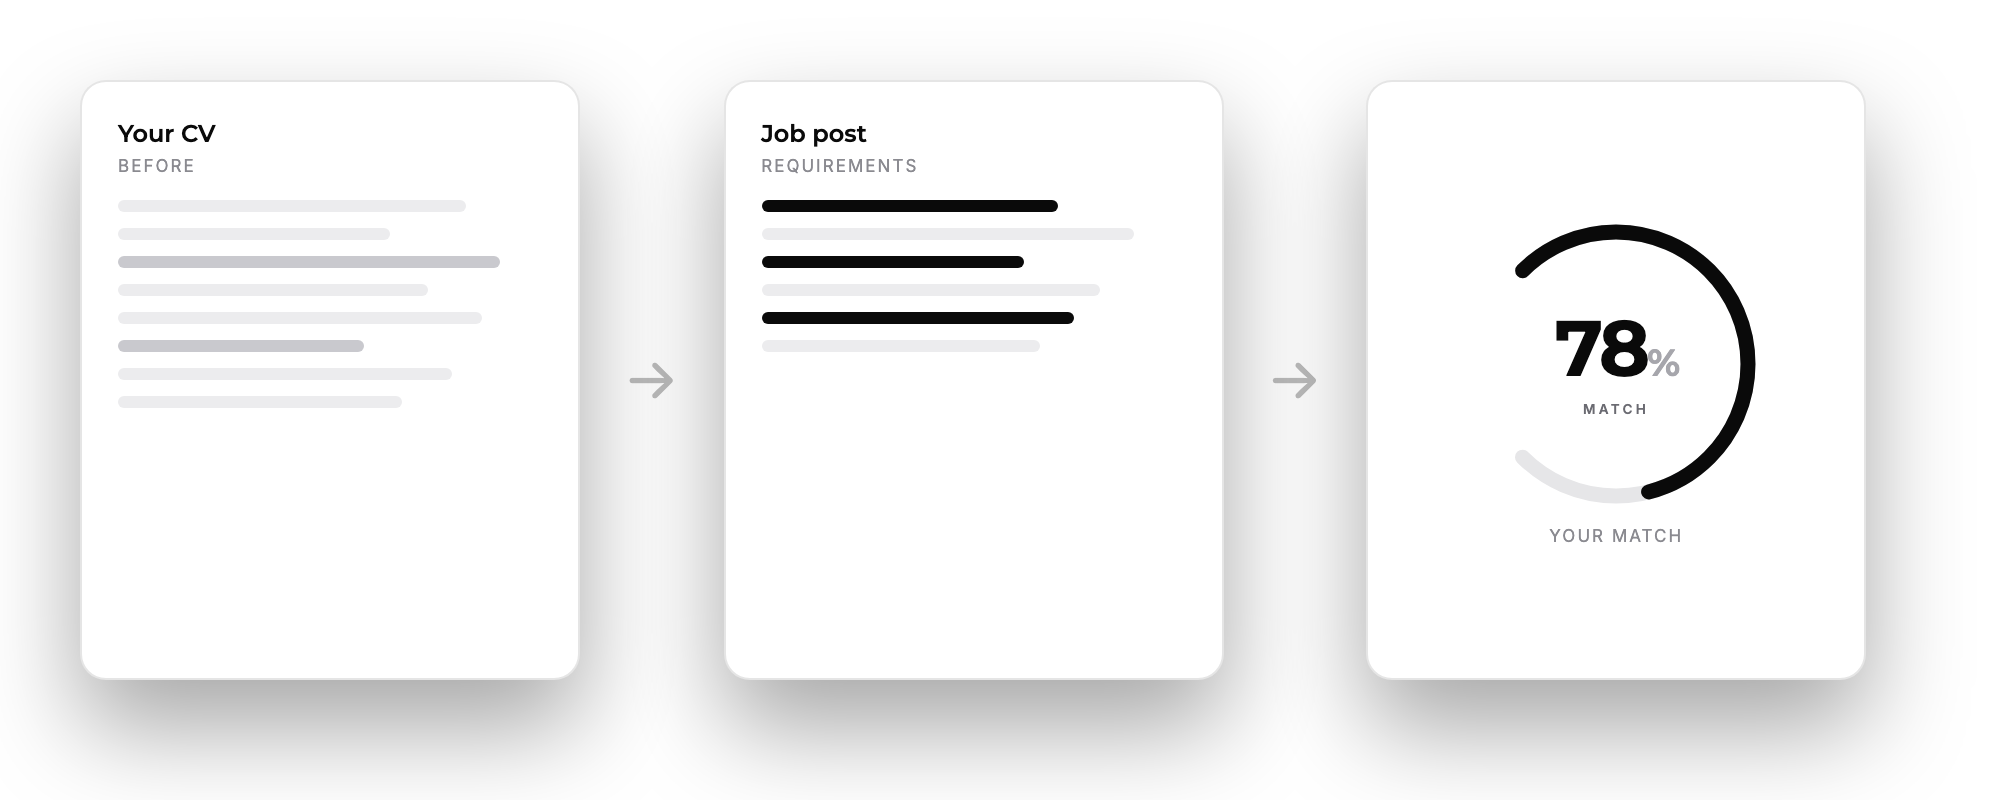
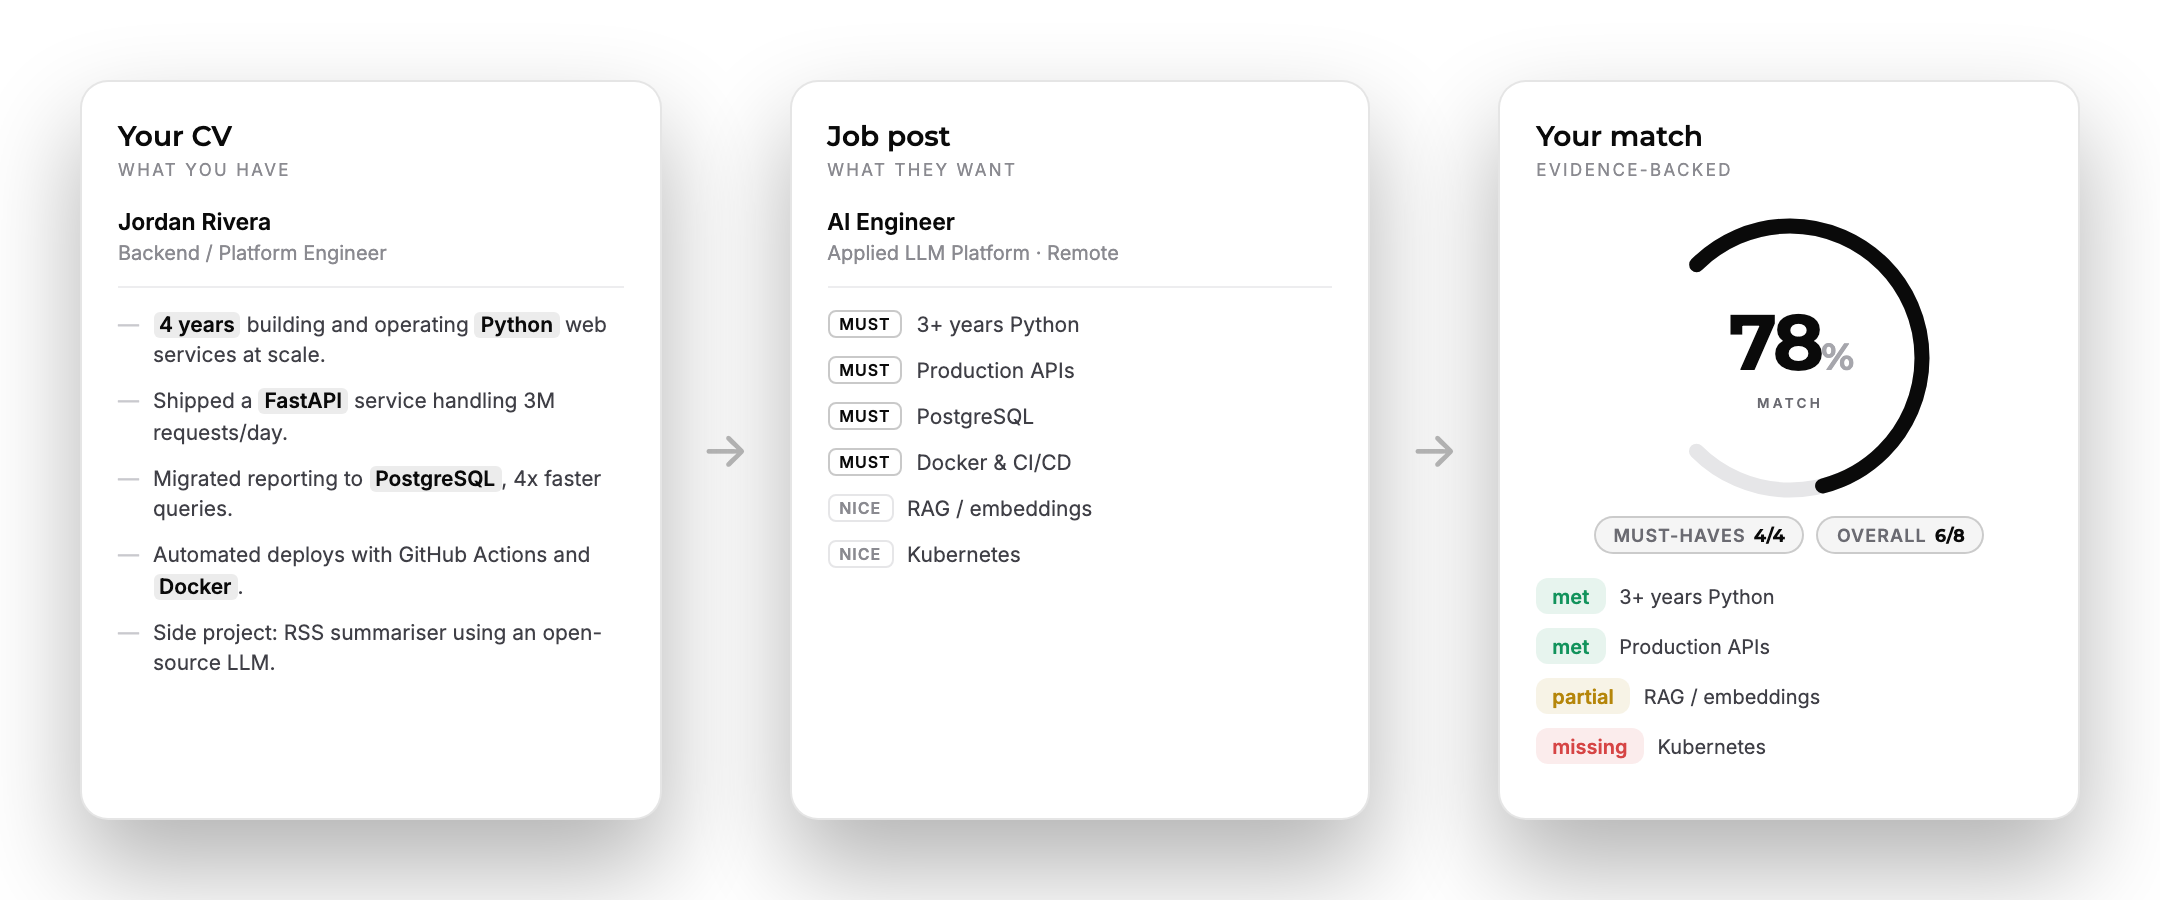
feat(landing): detailed transform visual + stacked mobile variant
The "how it works" illustration used placeholder grey bars, which showed
the shape of the product but said nothing about it. Both panels now carry
real content — a CV with the matched terms highlighted, a job post split
into must/nice requirements, and a match panel with the dial, coverage
chips, and per-requirement verdicts.

Three columns of 10px type is unreadable on a phone, so the same flow is
also rendered stacked and swapped in below the sm breakpoint. The stacked
shot is rendered at ~its display width with a larger type scale, so the
text lands close to 1:1 instead of being scaled down to ~6px. Only one
image is ever in the a11y tree (`hidden` is display:none).

Shots are now taken with a deliberately short viewport: full_page means
the height is only a floor, so the PNGs crop tight to their content
instead of baking in trailing whitespace.

diff --git a/frontend/components/landing/HowItWorks.tsx b/frontend/components/landing/HowItWorks.tsx
@@ -11,6 +11,9 @@ const STEPS = [
   { icon: BarChart3, title: "Get your match", body: "A score, an evidence-backed gap analysis, and tailored rewrites." },
 ];
 
+const TRANSFORM_ALT =
+  "Your CV and a job post become a 78% match: four of four must-haves met, RAG partially covered, Kubernetes missing.";
+
 export function HowItWorks() {
   return (
     <section id="how" className="bg-background scroll-mt-16">
@@ -30,12 +33,25 @@ export function HowItWorks() {
           transition={{ duration: 0.5 }}
           className="mt-12 sm:mt-14"
         >
+          {/* Three columns of small type are unreadable on a phone, so below sm
+              the same flow is swapped for a stacked render sized for that width
+              (capped at its native 398px so type stays 1:1). Only one is ever in
+              the a11y tree — `hidden` is display:none. */}
           <Image
             src="/visuals/transform.png"
-            alt="Your CV and a job post become a match score"
-            width={2000}
-            height={800}
-            className="w-full h-auto"
+            alt={TRANSFORM_ALT}
+            width={2160}
+            height={900}
+            sizes="(min-width: 640px) 100vw, 0px"
+            className="hidden sm:block w-full h-auto"
+          />
+          <Image
+            src="/visuals/transform-stacked.png"
+            alt={TRANSFORM_ALT}
+            width={796}
+            height={2800}
+            sizes="(max-width: 639px) 100vw, 0px"
+            className="block sm:hidden mx-auto w-full max-w-[398px] h-auto"
           />
         </motion.div>
 

diff --git a/frontend/components/landing/Benefits.tsx b/frontend/components/landing/Benefits.tsx
@@ -56,7 +56,7 @@ export function Benefits() {
             src="/visuals/result-preview.png"
             alt="Example ResumeMatch result: 78% match with evidence-backed requirement coverage and a suggested rewrite"
             width={2040}
-            height={1400}
+            height={1250}
             className="mx-auto w-full max-w-3xl h-auto"
           />
         </motion.div>

diff --git a/backend/site_visuals.py b/backend/site_visuals.py
@@ -49,10 +49,10 @@ BASE_CSS = """
 """
 
 
-def _dial_svg(pct: int) -> str:
+def _dial_svg(pct: int, size: int = 150) -> str:
     off = TRACK * (1 - pct / 100)
     return f"""
-<svg viewBox="0 0 200 200" width="150" height="150">
+<svg viewBox="0 0 200 200" width="{size}" height="{size}">
   <g transform="rotate(-135 100 100)">
     <circle cx="100" cy="100" r="{R}" fill="none" stroke="#E6E6E8" stroke-width="10"
             stroke-linecap="round" stroke-dasharray="{TRACK:.1f} {CIRC:.1f}"/>
@@ -143,50 +143,147 @@ RESULT_SHOT = f"""<!doctype html><html><head><meta charset="utf-8">{FONTS}
 
 
 # ------------------------------------------------------------ transformation
-TRANSFORM_SHOT = f"""<!doctype html><html><head><meta charset="utf-8">{FONTS}
-<style>{BASE_CSS}
-  .flow {{ display: flex; align-items: center; gap: 22px; }}
-  .doc {{ width: 250px; height: 300px; background: #fff; border: 1px solid rgba(0,0,0,.10);
-          border-radius: 13px; padding: 18px; box-shadow: 0 24px 50px rgba(0,0,0,.35); }}
-  .doc .h {{ font-family: Montserrat, sans-serif; font-size: 12px; margin-bottom: 4px; }}
-  .doc .tag {{ font-size: 8.5px; letter-spacing: .12em; text-transform: uppercase;
-               color: #8A8A90; margin-bottom: 12px; }}
-  .line {{ height: 6px; border-radius: 99px; background: #ECECEE; margin-bottom: 8px; }}
-  .line.dark {{ background: #0A0A0A; }}
-  .line.mid {{ background: #C9C9CE; }}
-  .arrow {{ font-size: 30px; color: rgba(10,10,10,.28); }}
-</style></head><body>
-<div class="flow">
-  <div class="doc">
-    <div class="h">Your CV</div><div class="tag">before</div>
-    <div class="line" style="width:82%"></div><div class="line" style="width:64%"></div>
-    <div class="line mid" style="width:90%"></div><div class="line" style="width:73%"></div>
-    <div class="line" style="width:86%"></div><div class="line mid" style="width:58%"></div>
-    <div class="line" style="width:79%"></div><div class="line" style="width:67%"></div>
+# Real content rather than placeholder bars, so the panels actually explain the
+# product. Rendered twice — side-by-side for wide screens, stacked for mobile,
+# where three columns would shrink the type past readability.
+
+TRANSFORM_CSS = """
+  .flow { display: flex; align-items: stretch; gap: 20px; }
+  .flow.stack { flex-direction: column; align-items: center; gap: 14px; }
+
+  .doc { width: 300px; background: #fff; border: 1px solid rgba(0,0,0,.10);
+         border-radius: 14px; padding: 18px 18px 20px;
+         box-shadow: 0 24px 50px rgba(0,0,0,.30); }
+  .flow.stack .doc { width: 460px; }
+
+  .doc .h { font-family: Montserrat, sans-serif; font-size: 14px; }
+  .doc .tag { font-size: 8.5px; letter-spacing: .14em; text-transform: uppercase;
+              color: #8A8A90; margin: 3px 0 14px; }
+
+  .who { font-size: 11.5px; font-weight: 600; }
+  .who span { display: block; font-weight: 400; color: #8A8A90; font-size: 10px; margin-top: 2px; }
+  .rule { height: 1px; background: #EDEDEF; margin: 11px 0; }
+
+  .b { display: flex; gap: 7px; font-size: 10.5px; line-height: 1.45;
+       color: #3F3F46; margin-bottom: 8px; }
+  .b::before { content: "—"; color: #C9C9CE; }
+  mark { background: rgba(10,10,10,.08); color: #0A0A0A; font-weight: 600;
+         padding: 0 3px; border-radius: 3px; }
+
+  .req { display: flex; align-items: center; gap: 7px; font-size: 10.5px;
+         color: #3F3F46; margin-bottom: 9px; }
+  .must { font-size: 8px; font-weight: 700; letter-spacing: .06em; text-transform: uppercase;
+          border: 1px solid rgba(10,10,10,.22); border-radius: 4px; padding: 1px 5px; color: #0A0A0A; }
+  .nice { font-size: 8px; font-weight: 600; letter-spacing: .06em; text-transform: uppercase;
+          border: 1px solid #E6E6E8; border-radius: 4px; padding: 1px 5px; color: #8A8A90; }
+
+  .arrow { font-size: 26px; color: rgba(10,10,10,.28); align-self: center; }
+
+  .chips { display: flex; gap: 6px; justify-content: center; margin-top: 4px; }
+  .chip { border: 1px solid rgba(10,10,10,.18); background: rgba(10,10,10,.04);
+          border-radius: 99px; padding: 3px 9px; font-size: 9px; }
+  .chip b { color: #6B6B72; text-transform: uppercase; letter-spacing: .06em; }
+  .chip i { font-style: normal; font-family: Montserrat, sans-serif; font-weight: 700; margin-left: 4px; }
+  .mini { margin-top: 12px; }
+  .mini .row { display: flex; align-items: center; gap: 7px; font-size: 10px;
+               color: #3F3F46; margin-bottom: 7px; }
+"""
+
+CV_PANEL = """
+<div class="doc">
+  <div class="h">Your CV</div><div class="tag">what you have</div>
+  <div class="who">Jordan Rivera<span>Backend / Platform Engineer</span></div>
+  <div class="rule"></div>
+  <div class="b"><span><mark>4 years</mark> building and operating <mark>Python</mark> web services at scale.</span></div>
+  <div class="b"><span>Shipped a <mark>FastAPI</mark> service handling 3M requests/day.</span></div>
+  <div class="b"><span>Migrated reporting to <mark>PostgreSQL</mark>, 4x faster queries.</span></div>
+  <div class="b"><span>Automated deploys with GitHub Actions and <mark>Docker</mark>.</span></div>
+  <div class="b"><span>Side project: RSS summariser using an open-source LLM.</span></div>
+</div>"""
+
+JOB_PANEL = """
+<div class="doc">
+  <div class="h">Job post</div><div class="tag">what they want</div>
+  <div class="who">AI Engineer<span>Applied LLM Platform · Remote</span></div>
+  <div class="rule"></div>
+  <div class="req"><span class="must">must</span> 3+ years Python</div>
+  <div class="req"><span class="must">must</span> Production APIs</div>
+  <div class="req"><span class="must">must</span> PostgreSQL</div>
+  <div class="req"><span class="must">must</span> Docker &amp; CI/CD</div>
+  <div class="req"><span class="nice">nice</span> RAG / embeddings</div>
+  <div class="req"><span class="nice">nice</span> Kubernetes</div>
+</div>"""
+
+
+def _match_panel(dial: int) -> str:
+    return f"""
+<div class="doc" style="display:flex;flex-direction:column;align-items:center;">
+  <div style="align-self:flex-start"><div class="h">Your match</div>
+    <div class="tag">evidence-backed</div></div>
+  {_dial_svg(78, dial)}
+  <div class="chips">
+    <span class="chip"><b>Must-haves</b><i>4/4</i></span>
+    <span class="chip"><b>Overall</b><i>6/8</i></span>
   </div>
-
-  <div class="arrow">→</div>
-
-  <div class="doc" style="width:250px">
-    <div class="h">Job post</div><div class="tag">requirements</div>
-    <div class="line dark" style="width:70%"></div><div class="line" style="width:88%"></div>
-    <div class="line dark" style="width:62%"></div><div class="line" style="width:80%"></div>
-    <div class="line dark" style="width:74%"></div><div class="line" style="width:66%"></div>
+  <div class="mini" style="align-self:stretch">
+    <div class="row">{_pill("met", "met")} 3+ years Python</div>
+    <div class="row">{_pill("met", "met")} Production APIs</div>
+    <div class="row">{_pill("partial", "partial")} RAG / embeddings</div>
+    <div class="row">{_pill("missing", "missing")} Kubernetes</div>
   </div>
+</div>"""
 
-  <div class="arrow">→</div>
 
-  <div class="doc" style="display:flex;flex-direction:column;align-items:center;justify-content:center;gap:6px">
-    {_dial_svg(78)}
-    <div class="tag" style="margin:0">your match</div>
-  </div>
+# The stacked shot is rendered near the width it will actually be displayed at
+# (~350 CSS px inside the section's padding), so the type lands close to 1:1
+# instead of being scaled down to illegibility. Everything is sized up to suit.
+STACK_CSS = """
+  body { padding: 20px 24px 26px; }
+  .flow.stack .doc { width: 100%; padding: 20px 20px 22px; }
+  .flow.stack { gap: 10px; }
+  .doc .h { font-size: 19px; }
+  .doc .tag { font-size: 10.5px; margin: 4px 0 16px; }
+  .who { font-size: 15px; }
+  .who span { font-size: 13px; margin-top: 3px; }
+  .rule { margin: 14px 0; }
+  .b { font-size: 13.5px; line-height: 1.5; margin-bottom: 11px; gap: 9px; }
+  .req { font-size: 13.5px; margin-bottom: 12px; gap: 9px; }
+  .must, .nice { font-size: 10px; padding: 2px 6px; }
+  .chip { font-size: 11.5px; padding: 4px 11px; }
+  .chips { gap: 8px; margin-top: 8px; }
+  .mini { margin-top: 16px; }
+  .mini .row { font-size: 13px; margin-bottom: 10px; gap: 9px; }
+  .mini .row span { font-size: 12px !important; padding: 4px 9px !important; }
+  .arrow { font-size: 30px; }
+"""
+
+
+def _transform(stacked: bool) -> str:
+    arrow = "↓" if stacked else "→"
+    extra = STACK_CSS if stacked else ""
+    return f"""<!doctype html><html><head><meta charset="utf-8">{FONTS}
+<style>{BASE_CSS}{TRANSFORM_CSS}{extra}</style></head><body>
+<div class="flow{' stack' if stacked else ''}">
+  {CV_PANEL}
+  <div class="arrow">{arrow}</div>
+  {JOB_PANEL}
+  <div class="arrow">{arrow}</div>
+  {_match_panel(190 if stacked else 150)}
 </div>
 </body></html>"""
 
 
+TRANSFORM_SHOT = _transform(stacked=False)
+TRANSFORM_STACKED = _transform(stacked=True)
+
+
+# width, height. The height is only a floor: shots are taken full_page, so a
+# deliberately short viewport lets the PNG crop tight to the content instead of
+# baking in trailing whitespace.
 VISUALS = {
-    "result-preview.png": (RESULT_SHOT, 1020, 700),
-    "transform.png": (TRANSFORM_SHOT, 1000, 400),
+    "result-preview.png": (RESULT_SHOT, 1020, 200),
+    "transform.png": (TRANSFORM_SHOT, 1080, 200),
+    "transform-stacked.png": (TRANSFORM_STACKED, 398, 200),
 }
 
 
